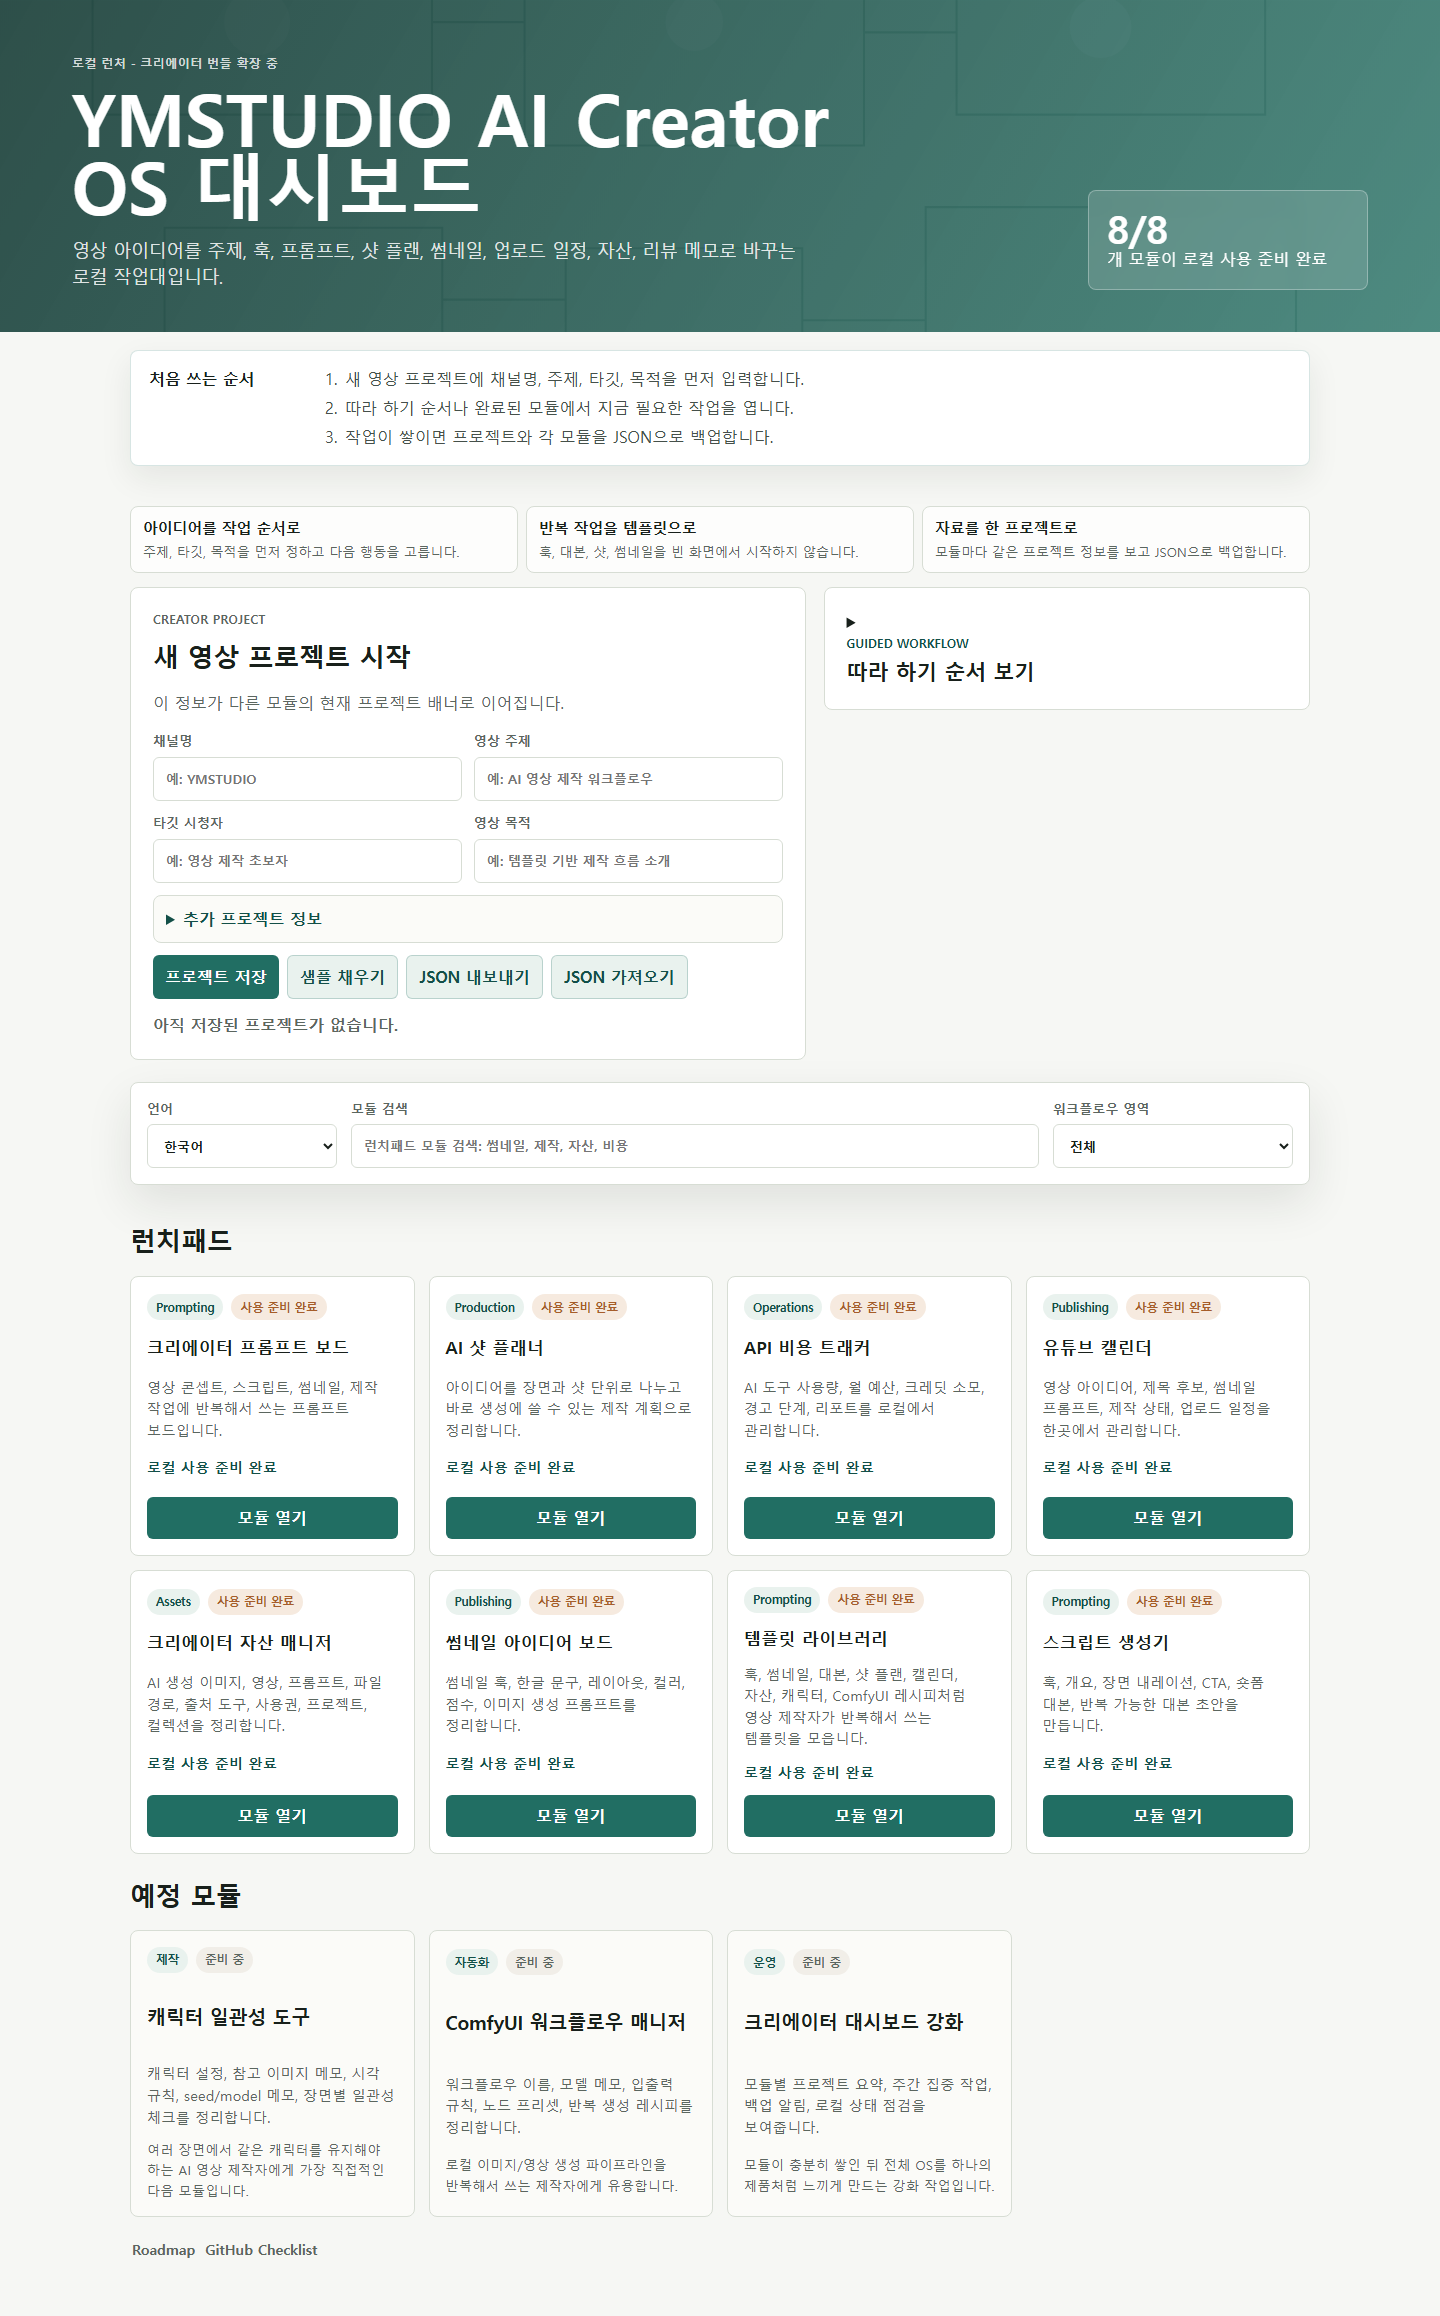
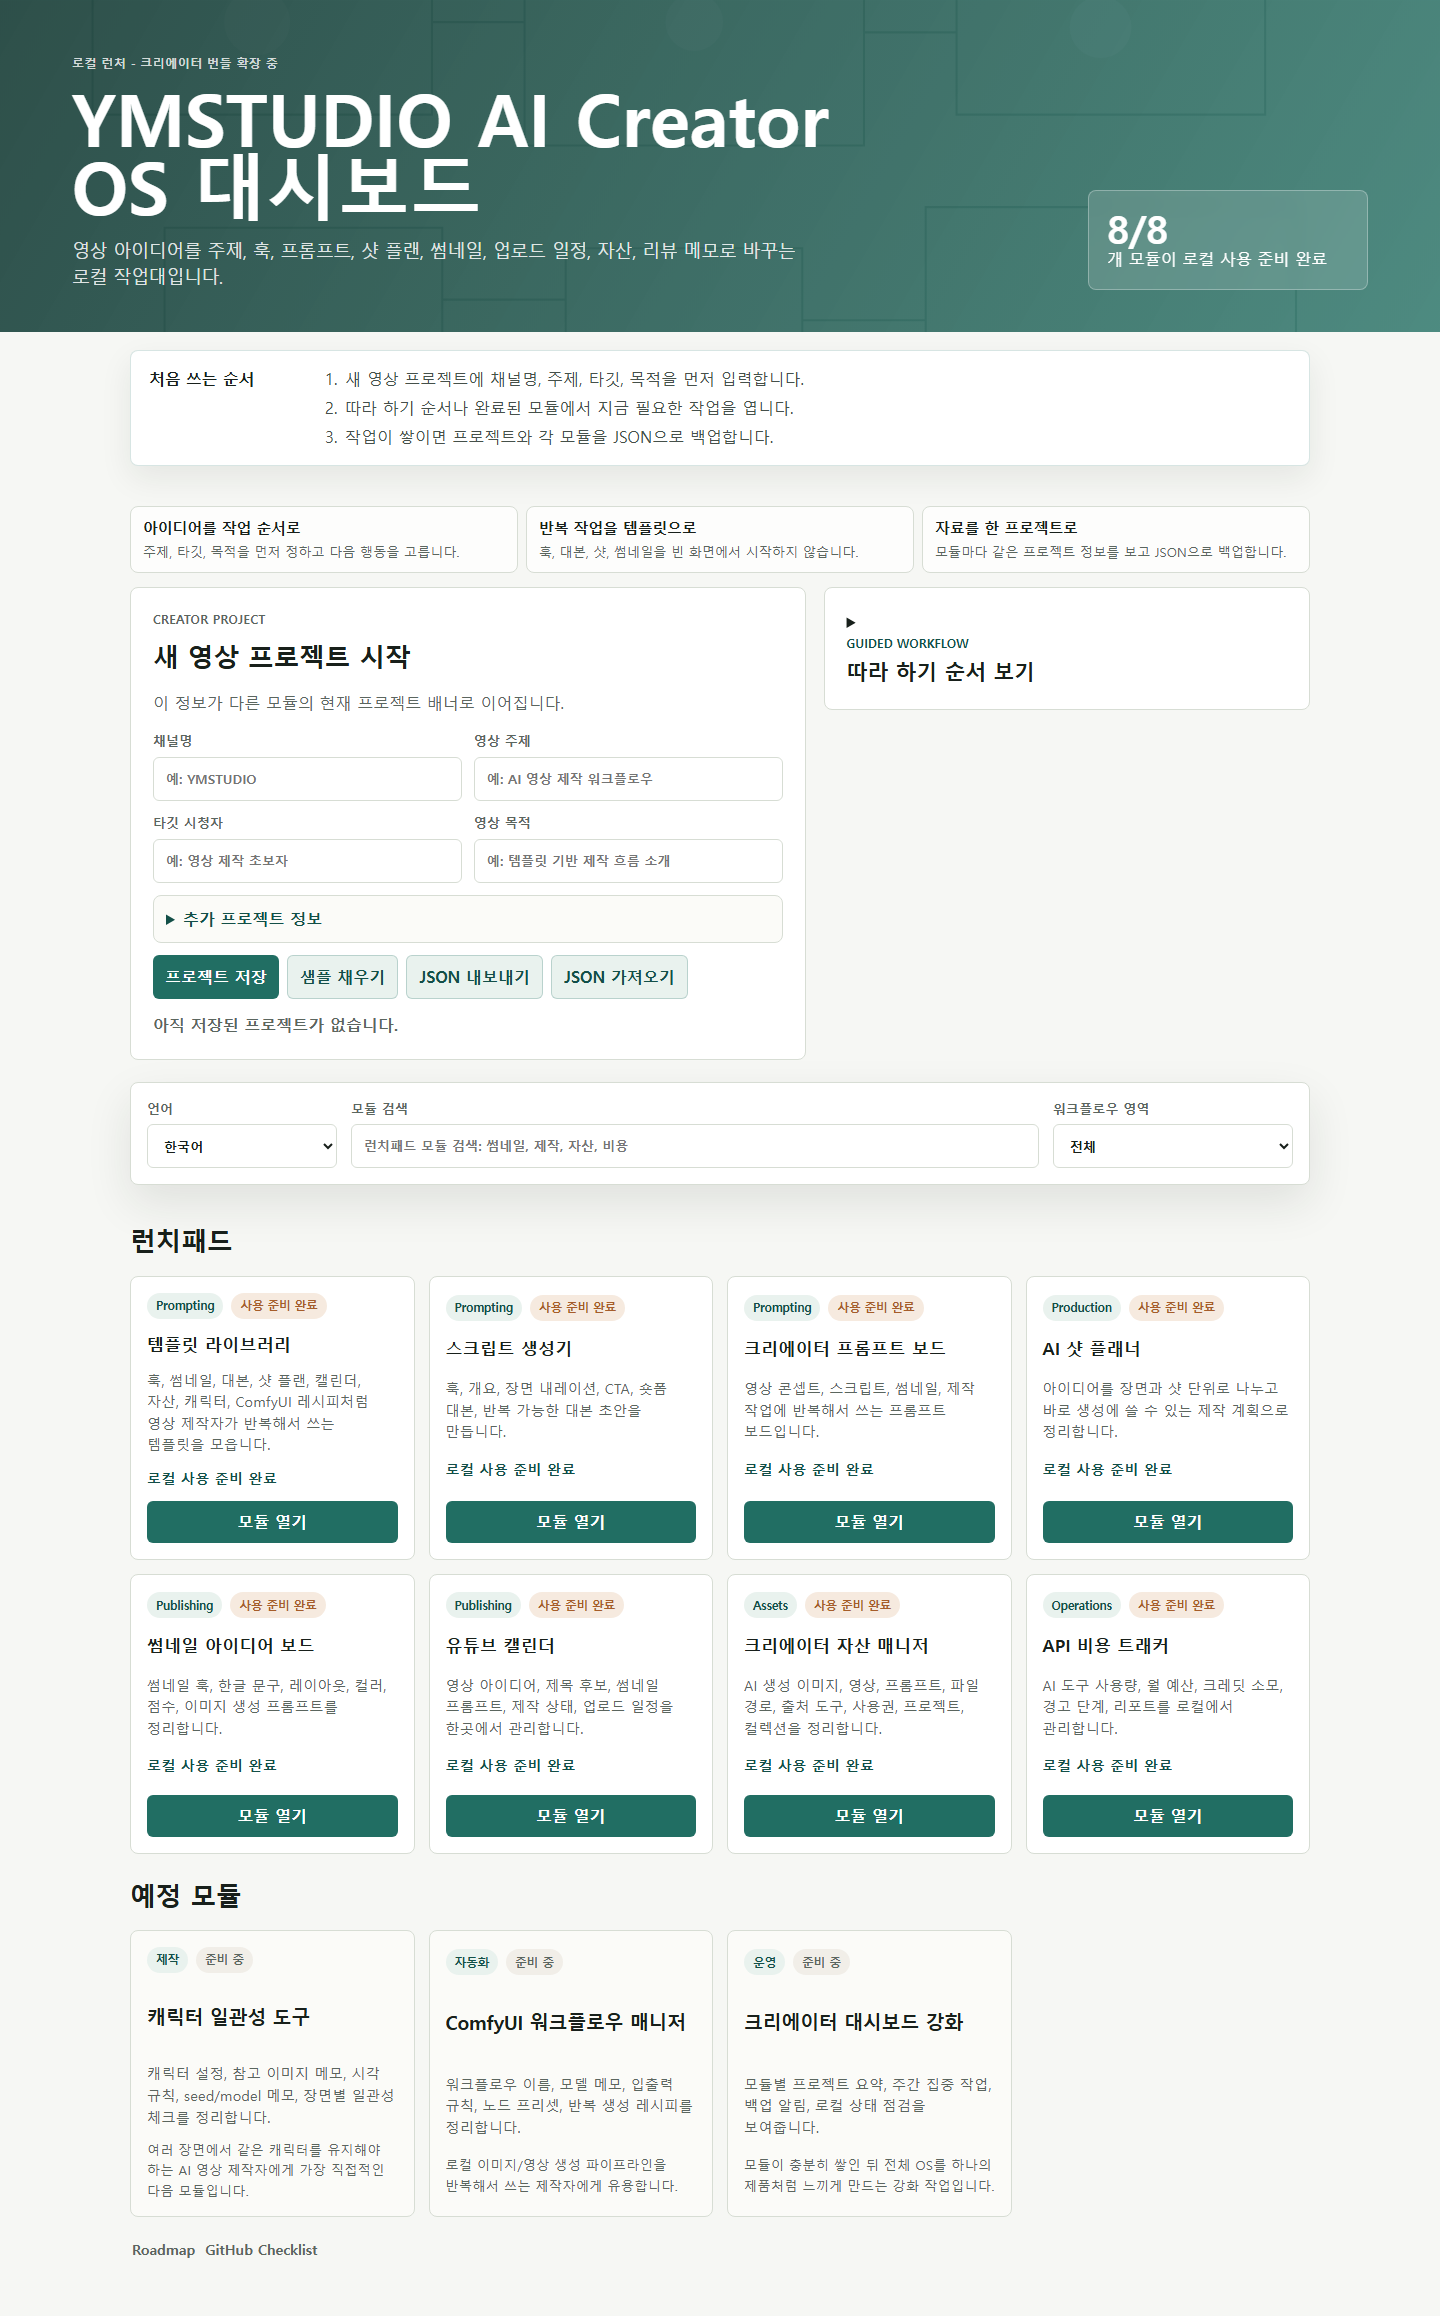
Connect scripts to shot planner

diff --git a/outputs/script-generator/state.js b/outputs/script-generator/state.js
@@ -7,6 +7,7 @@
 })(typeof globalThis !== "undefined" ? globalThis : window, function () {
   const STORAGE_KEY = "ymstudio.scriptGenerator.v1";
   const PROJECT_KEY = "ymstudio.creatorProject.v1";
+  const SHOT_PLANNER_KEY = "ymstudio.aiShotPlanner.v1";
   const EXPORT_VERSION = 1;
 
   const formats = ["YouTube Long", "Shorts", "Tutorial", "Product Demo", "Course Lesson"];
@@ -65,6 +66,10 @@
 
   function makeId() {
     return "script_" + Date.now().toString(36) + "_" + Math.random().toString(36).slice(2, 8);
+  }
+
+  function makeLinkedId(prefix) {
+    return prefix + "_" + Date.now().toString(36) + "_" + Math.random().toString(36).slice(2, 8);
   }
 
   function normalizeChoice(value, options, fallback) {
@@ -171,6 +176,79 @@
     return lines.join("\n");
   }
 
+  function scriptToShotPlan(script) {
+    const safeScript = createScript(script);
+    const scenes = (safeScript.scenes.length ? safeScript.scenes : [safeScript.hook || safeScript.title]).map((sceneText, index) => {
+      const sceneId = makeLinkedId("scene");
+      return {
+        id: sceneId,
+        title: sceneText.slice(0, 60) || `장면 ${index + 1}`,
+        summary: sceneText,
+        location: "",
+        order: index + 1,
+      };
+    });
+    const shots = scenes.map((scene, index) => ({
+      id: makeLinkedId("shot"),
+      sceneId: scene.id,
+      shotNumber: `${index + 1}.1`,
+      title: scene.title,
+      description: scene.summary,
+      prompt: [safeScript.hook, scene.summary, safeScript.cta].filter(Boolean).join("\n"),
+      tool: "Claude",
+      model: "Script Generator draft",
+      status: "idea",
+      duration: "",
+      assetPaths: { image: "", video: "", reference: "" },
+      continuity: { character: "", outfit: "", location: "", mood: safeScript.tone, cameraStyle: "" },
+      notes: safeScript.notes || "Script Generator에서 보낸 장면 초안입니다.",
+      createdAt: new Date().toISOString(),
+      updatedAt: new Date().toISOString(),
+    }));
+    return {
+      version: 1,
+      project: {
+        title: safeScript.title,
+        goal: safeScript.goal,
+        format: safeScript.format,
+        audience: safeScript.audience,
+        continuity: { character: "", outfit: "", location: "", mood: safeScript.tone, cameraStyle: "" },
+      },
+      scenes,
+      shots,
+      updatedAt: new Date().toISOString(),
+    };
+  }
+
+  function sendToShotPlanner(storage, script) {
+    if (!storage) return { ok: false, message: "localStorage를 사용할 수 없습니다." };
+    const incoming = scriptToShotPlan(script);
+    try {
+      const raw = storage.getItem(SHOT_PLANNER_KEY);
+      if (!raw) {
+        storage.setItem(SHOT_PLANNER_KEY, JSON.stringify(incoming));
+        return { ok: true, message: "샷 플래너에 새 계획을 만들었습니다.", scenes: incoming.scenes.length, shots: incoming.shots.length };
+      }
+      const current = JSON.parse(raw);
+      const currentScenes = Array.isArray(current.scenes) ? current.scenes : [];
+      const currentShots = Array.isArray(current.shots) ? current.shots : [];
+      const maxOrder = currentScenes.reduce((highest, scene) => Math.max(highest, Number(scene.order) || 0), 0);
+      const scenes = incoming.scenes.map((scene, index) => ({ ...scene, order: maxOrder + index + 1 }));
+      const next = {
+        ...current,
+        version: current.version || 1,
+        project: current.project || incoming.project,
+        scenes: currentScenes.concat(scenes),
+        shots: currentShots.concat(incoming.shots),
+        updatedAt: new Date().toISOString(),
+      };
+      storage.setItem(SHOT_PLANNER_KEY, JSON.stringify(next));
+      return { ok: true, message: "샷 플래너에 장면을 추가했습니다.", scenes: scenes.length, shots: incoming.shots.length };
+    } catch (error) {
+      return { ok: false, message: "기존 샷 플랜 JSON을 읽지 못했습니다. 샷 플래너에서 먼저 백업하거나 초기화하세요.", scenes: 0, shots: 0 };
+    }
+  }
+
   function buildFromProject(project) {
     const source = project || {};
     const topic = String(source.videoTopic || "").trim() || "새 영상 주제";
@@ -255,6 +333,7 @@
   return {
     STORAGE_KEY,
     PROJECT_KEY,
+    SHOT_PLANNER_KEY,
     EXPORT_VERSION,
     formats,
     tones,
@@ -264,6 +343,8 @@
     updateScript,
     filterScripts,
     formatScript,
+    scriptToShotPlan,
+    sendToShotPlanner,
     buildFromProject,
     getSummary,
     loadProject,

diff --git a/outputs/script-generator/test.js b/outputs/script-generator/test.js
@@ -1,6 +1,14 @@
 const assert = require("assert");
 const State = require("./state.js");
 
+function memoryStorage() {
+  const data = new Map();
+  return {
+    getItem: (key) => (data.has(key) ? data.get(key) : null),
+    setItem: (key, value) => data.set(key, String(value)),
+  };
+}
+
 function testCreateScriptDefaults() {
   const script = State.createScript({ title: "  Test  ", format: "bad", status: "bad" });
   assert.strictEqual(script.title, "Test");
@@ -51,6 +59,40 @@ function testBuildFromProject() {
   assert.ok(script.audience.includes("초보자"));
 }
 
+function testScriptToShotPlan() {
+  const script = State.createScript({ title: "대본", scenes: ["첫 장면", "둘째 장면"], hook: "시작", cta: "저장" });
+  const plan = State.scriptToShotPlan(script);
+  assert.strictEqual(plan.project.title, "대본");
+  assert.strictEqual(plan.scenes.length, 2);
+  assert.strictEqual(plan.shots.length, 2);
+  assert.strictEqual(plan.shots[0].sceneId, plan.scenes[0].id);
+}
+
+function testSendToShotPlannerMergesExistingPlan() {
+  const storage = memoryStorage();
+  storage.setItem(State.SHOT_PLANNER_KEY, JSON.stringify({
+    version: 1,
+    project: { title: "기존 계획" },
+    scenes: [{ id: "scene_old", title: "기존", summary: "", location: "", order: 1 }],
+    shots: [],
+  }));
+  const result = State.sendToShotPlanner(storage, State.createScript({ title: "새 대본", scenes: ["새 장면"] }));
+  const plan = JSON.parse(storage.getItem(State.SHOT_PLANNER_KEY));
+  assert.strictEqual(result.ok, true);
+  assert.strictEqual(plan.project.title, "기존 계획");
+  assert.strictEqual(plan.scenes.length, 2);
+  assert.strictEqual(plan.shots.length, 1);
+  assert.strictEqual(plan.scenes[1].order, 2);
+}
+
+function testSendToShotPlannerDoesNotOverwriteCorruptPlan() {
+  const storage = memoryStorage();
+  storage.setItem(State.SHOT_PLANNER_KEY, "{not json");
+  const result = State.sendToShotPlanner(storage, State.createScript({ title: "새 대본", scenes: ["새 장면"] }));
+  assert.strictEqual(result.ok, false);
+  assert.strictEqual(storage.getItem(State.SHOT_PLANNER_KEY), "{not json");
+}
+
 function testSummary() {
   const summary = State.getSummary(State.demoScripts.map(State.createScript));
   assert.strictEqual(summary.total, State.demoScripts.length);
@@ -77,9 +119,12 @@ function testInvalidImport() {
   testUpdatePreservesIdentity,
   testFormatScript,
   testBuildFromProject,
+  testScriptToShotPlan,
+  testSendToShotPlannerMergesExistingPlan,
+  testSendToShotPlannerDoesNotOverwriteCorruptPlan,
   testSummary,
   testExportImportRoundTrip,
   testInvalidImport,
 ].forEach((test) => test());
 
-console.log("Passed 9 Script Generator tests.");
+console.log("Passed 12 Script Generator tests.");

diff --git a/outputs/creator-os-dashboard/state.js b/outputs/creator-os-dashboard/state.js
@@ -156,6 +156,17 @@
     },
   ];
 
+  const launchpadOrder = [
+    "template-library",
+    "script-generator",
+    "creator-prompt-board",
+    "ai-shot-planner",
+    "thumbnail-idea-board",
+    "youtube-calendar",
+    "creator-asset-manager",
+    "api-cost-tracker",
+  ];
+
   const githubChecklist = [
     { en: "Confirm each module opens from its local index.html.", ko: "각 모듈이 로컬 index.html에서 정상적으로 열리는지 확인합니다." },
     { en: "Review README and usage docs for public wording.", ko: "README와 사용 문서의 공개용 문구를 확인합니다." },
@@ -309,7 +320,7 @@
         module.businessUseKo,
       ].join(" ").toLowerCase();
       return matchesWorkflow && (!normalizedQuery || searchableText.includes(normalizedQuery));
-    }).map((module) => localizeModule(module, language));
+    }).sort((a, b) => launchpadOrder.indexOf(a.id) - launchpadOrder.indexOf(b.id)).map((module) => localizeModule(module, language));
   }
 
   function getStatusSummary(items) {

diff --git a/outputs/creator-os-dashboard/test.js b/outputs/creator-os-dashboard/test.js
@@ -32,6 +32,19 @@ function testLinksExist() {
 function testWorkflowFiltering() {
   assert.strictEqual(state.filterModules("", "All").length, 8);
   assert.deepStrictEqual(
+    state.filterModules("", "All").map((module) => module.id),
+    [
+      "template-library",
+      "script-generator",
+      "creator-prompt-board",
+      "ai-shot-planner",
+      "thumbnail-idea-board",
+      "youtube-calendar",
+      "creator-asset-manager",
+      "api-cost-tracker",
+    ]
+  );
+  assert.deepStrictEqual(
     state.filterModules("", "Publishing").map((module) => module.id).sort(),
     ["thumbnail-idea-board", "youtube-calendar"]
   );

diff --git a/outputs/script-generator/app.js b/outputs/script-generator/app.js
@@ -16,6 +16,7 @@ const els = {
   newScript: document.querySelector("#newScript"),
   fromProject: document.querySelector("#fromProject"),
   saveScript: document.querySelector("#saveScript"),
+  sendShotPlanner: document.querySelector("#sendShotPlanner"),
   copyScript: document.querySelector("#copyScript"),
   deleteScript: document.querySelector("#deleteScript"),
   title: document.querySelector("#title"),
@@ -149,7 +150,7 @@ function renderList() {
 function renderEditor() {
   const script = selectedScript();
   const disabled = !script;
-  [els.saveScript, els.copyScript, els.deleteScript].forEach((button) => {
+  [els.saveScript, els.sendShotPlanner, els.copyScript, els.deleteScript].forEach((button) => {
     button.disabled = disabled;
   });
   if (!script) {
@@ -222,6 +223,12 @@ async function copyCurrent() {
   }
 }
 
+function sendCurrentToShotPlanner() {
+  const script = readEditor();
+  const result = State.sendToShotPlanner(window.localStorage, script);
+  showToast(result.message);
+}
+
 function deleteCurrent() {
   const script = selectedScript();
   if (!script) return;
@@ -279,6 +286,7 @@ function bindEvents() {
   els.newScript.addEventListener("click", addNewScript);
   els.fromProject.addEventListener("click", addFromProject);
   els.saveScript.addEventListener("click", saveCurrent);
+  els.sendShotPlanner.addEventListener("click", sendCurrentToShotPlanner);
   els.copyScript.addEventListener("click", copyCurrent);
   els.deleteScript.addEventListener("click", deleteCurrent);
   els.exportJson.addEventListener("click", exportJson);

diff --git a/outputs/script-generator/index.html b/outputs/script-generator/index.html
@@ -74,6 +74,7 @@
             </div>
             <div class="actions">
               <button id="saveScript" type="button">저장</button>
+              <button id="sendShotPlanner" type="button">샷 플래너로 보내기</button>
               <button id="copyScript" type="button">복사</button>
               <button id="deleteScript" class="danger" type="button">삭제</button>
             </div>

diff --git a/scripts/test_creator_os_interactions.py b/scripts/test_creator_os_interactions.py
@@ -44,7 +44,8 @@ def main() -> int:
                 "ymstudio.templateLibrary.v1",
                 "ymstudio.creatorPromptBoard.v1",
                 "ymstudio.thumbnailIdeaBoard.v1",
-                "ymstudio.scriptGenerator.v1"
+                "ymstudio.scriptGenerator.v1",
+                "ymstudio.aiShotPlanner.v1"
               ].forEach((key) => localStorage.removeItem(key));
             }"""
         )
@@ -109,6 +110,12 @@ def main() -> int:
         checks.append({
             "name": "script_generator_from_project",
             "passed": len(script_state) >= 1 and bool(script_state[0].get("hook")),
+        })
+        page.click("#sendShotPlanner")
+        shot_plan = page.evaluate("""() => JSON.parse(localStorage.getItem("ymstudio.aiShotPlanner.v1") || "{}")""")
+        checks.append({
+            "name": "script_generator_send_to_shot_planner",
+            "passed": len(shot_plan.get("scenes", [])) >= 1 and len(shot_plan.get("shots", [])) >= 1,
         })
         with page.expect_download() as script_download_info:
             page.click("#exportJson")

diff --git a/README.md b/README.md
@@ -30,6 +30,7 @@ The dashboard includes a local Creator Project profile for a single video projec
 - Guided workflow from topic setup to template selection, prompt storage, shot planning, thumbnail planning, upload planning, asset notes, and cost tracking
 - Project JSON export/import for local backup
 - Current project banner on module pages so each tool can reference the same project context
+- Script Generator can send scene drafts directly into AI Shot Planner without overwriting valid existing plans
 
 Project planning notes are kept outside the dashboard:
 